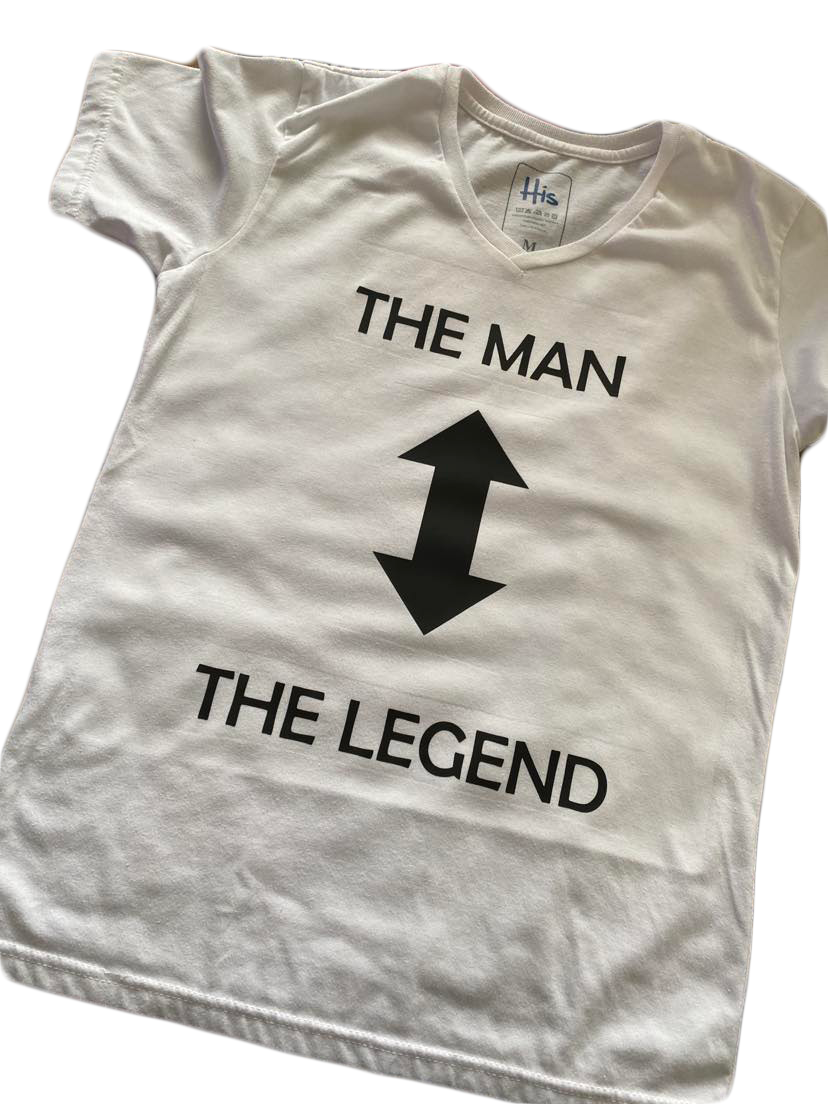
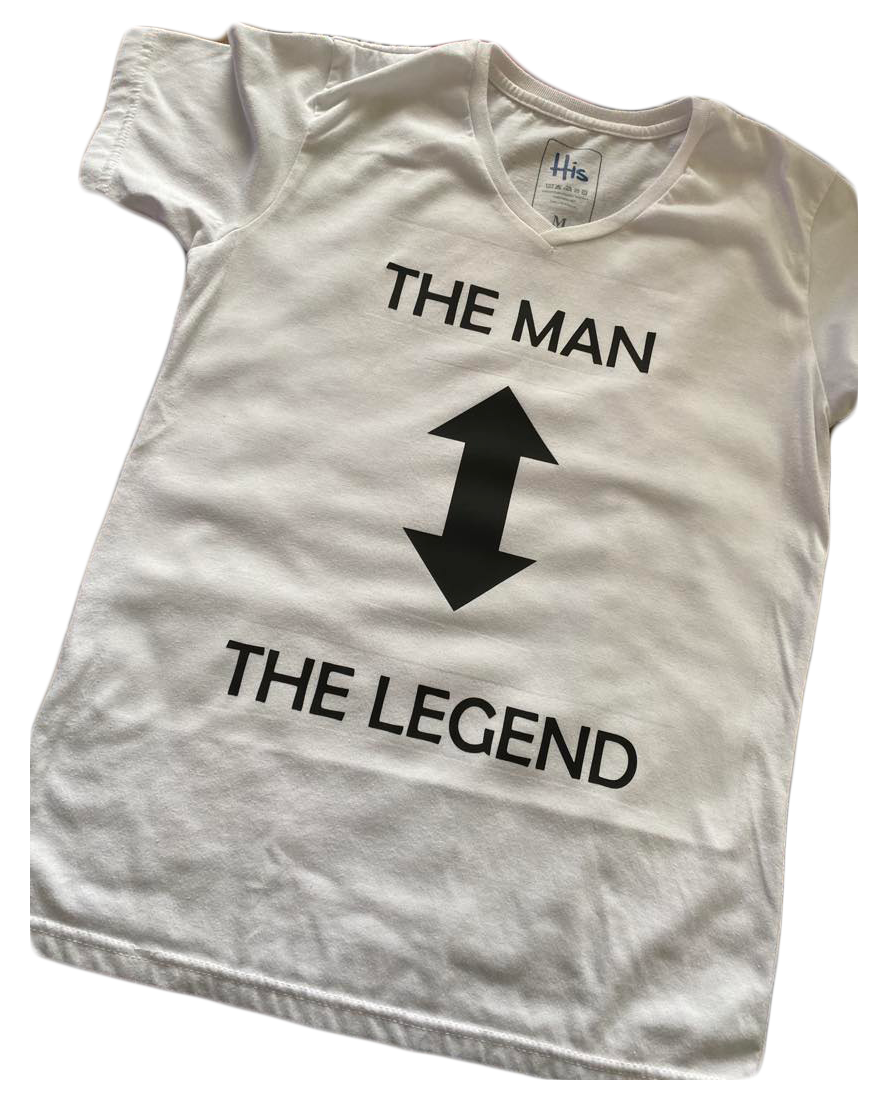
hi

diff --git a/index.html b/index.html
@@ -399,12 +399,12 @@
             <div class="portfolio-wrap">
               <img src="assets/img/portfolio/portfolio-6.jpg" class="img-fluid" alt="">
               <div class="portfolio-info">
-                <h4>App 3</h4>
-                <p>App</p>
+                <h4>A logo request from my cousins uncle</h4>
+                <p>2 different colored T-shirts with same logo</p>
               </div>
               <div class="portfolio-links">
                 <a href="assets/img/portfolio/portfolio-6.jpg" data-gallery="portfolioGallery"
-                  class="portfolio-lightbox" title="App 3"><i class="bx bx-plus"></i></a>
+                  class="portfolio-lightbox" title="2 different colored T-shirts with same logo"><i class="bx bx-plus"></i></a>
               </div>
             </div>
           </div>
